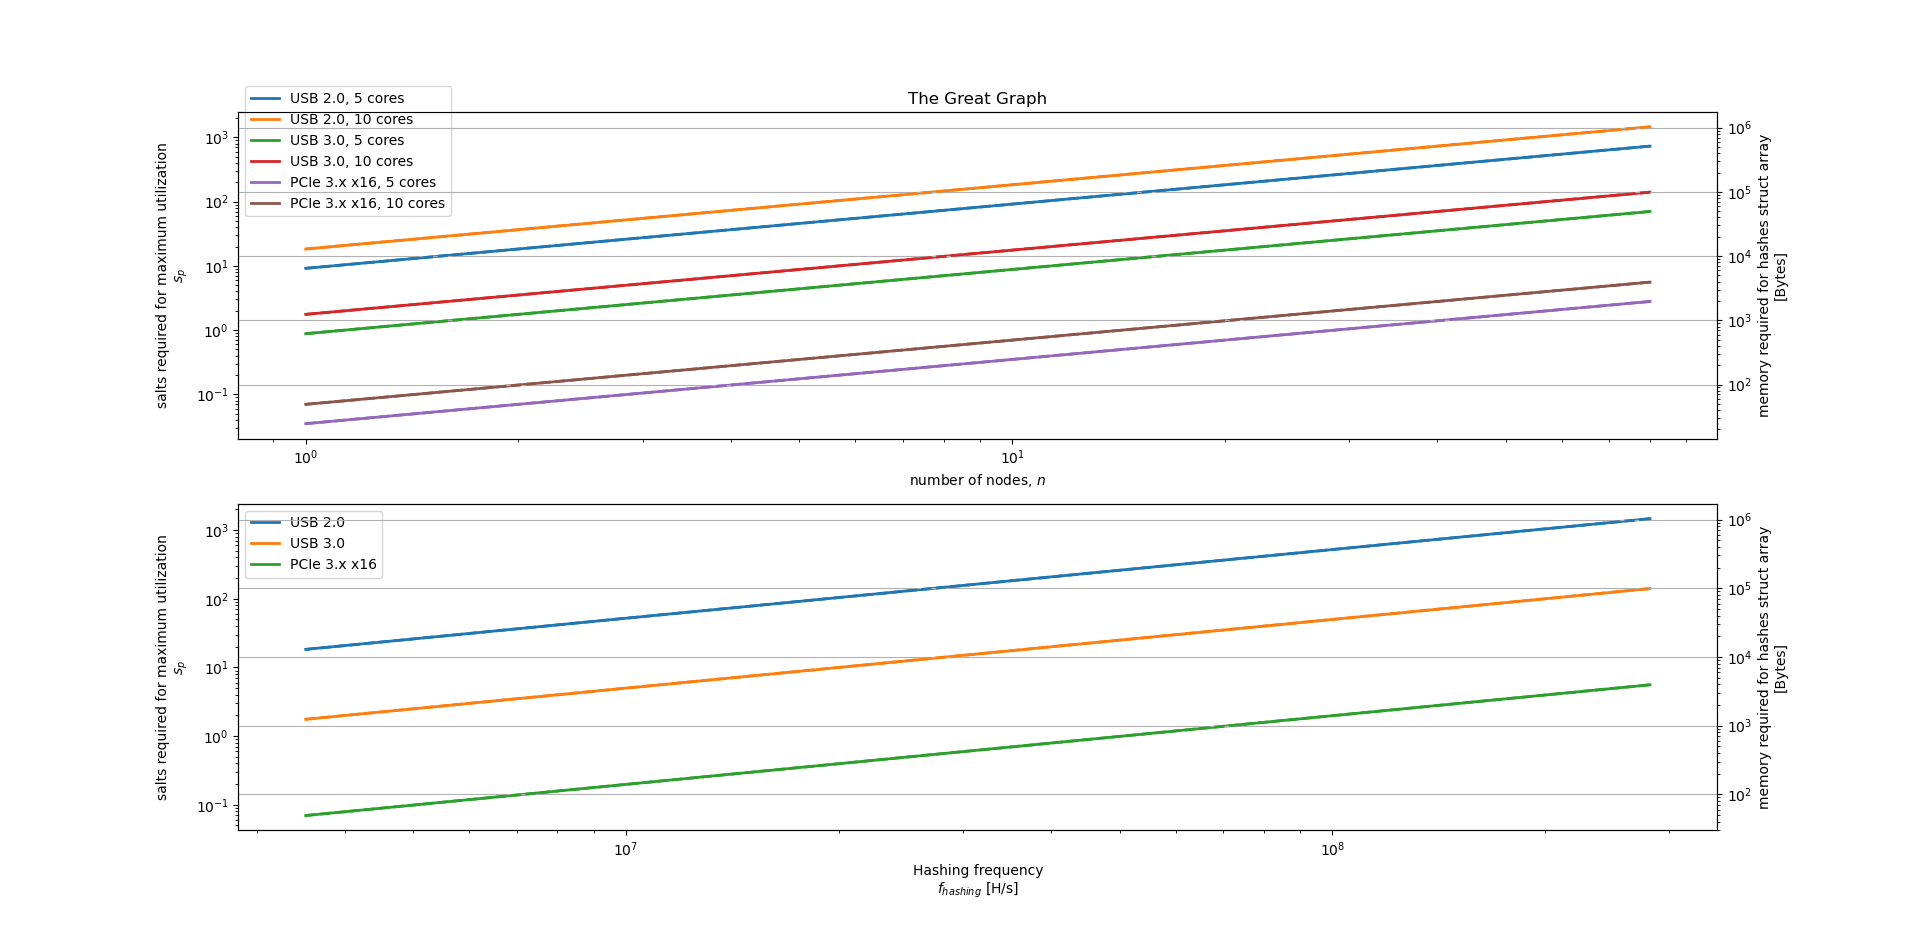
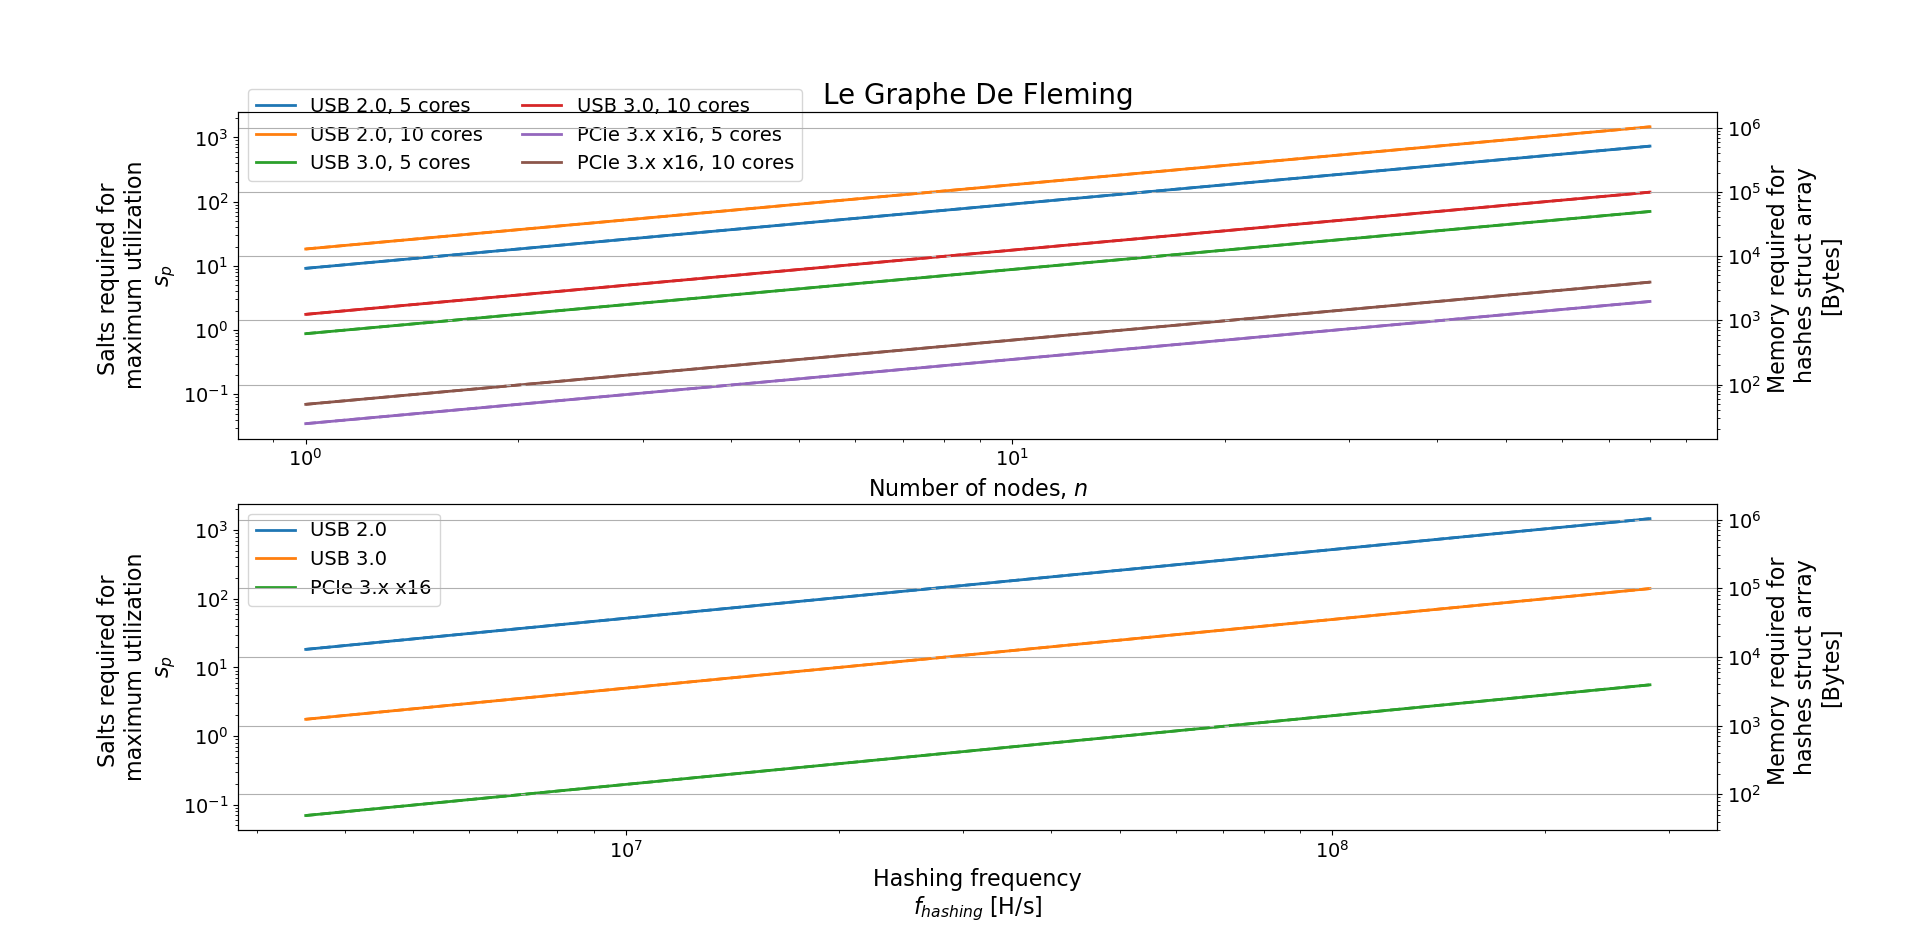
increase fontsize of le_graphe_de_Fleming

diff --git a/figures/theoretical_system/the_great_graph/le_graphe_de_Fleming.py b/figures/theoretical_system/the_great_graph/le_graphe_de_Fleming.py
@@ -3,7 +3,10 @@ import numpy as np
 import sys
 
 LINEWIDTH = 2
-TITLE = "The Great Graph"
+FONTSIZE = 14
+FONTSIZEPLUS = 16
+TITLEFONTSIZE = 20
+TITLE = "Le Graphe De Fleming"
 
 try:
     if sys.argv[1] == 'log':
@@ -34,7 +37,7 @@ fig, (ax1_n, ax1_f) = plt.subplots(2, 1, linewidth=LINEWIDTH)
 
 # Create a twin axes that shares the same x-axis
 ax2_n = ax1_n.twinx()
-plt.title(TITLE)
+plt.title(TITLE, fontsize = TITLEFONTSIZE)
 plt.grid()
 
 # Create a twin axes for the top axis
@@ -80,18 +83,23 @@ for bus_name, bus_speed in busses.items():
                 ax2_f.plot(f_target_values, mem_values, linestyle='--', linewidth=LINEWIDTH)
 
 # Set labels for the axes
-ax1_n.set_xlabel('number of nodes, $n$')
-ax1_n.set_ylabel('salts required for maximum utilization\n$s_p$')
-ax2_n.set_ylabel('memory required for hashes struct array\n[Bytes]')
-ax1_f.set_xlabel('Hashing frequency\n$f_{hashing}$ [H/s]')
-ax1_f.set_ylabel('salts required for maximum utilization\n$s_p$')
-ax2_f.set_ylabel('memory required for hashes struct array\n[Bytes]')
+ax1_n.set_xlabel('Number of nodes, $n$',fontsize=FONTSIZEPLUS)
+ax1_n.set_ylabel('Salts required for \nmaximum utilization\n$s_p$',fontsize=FONTSIZEPLUS)
+ax2_n.set_ylabel('Memory required for \nhashes struct array\n[Bytes]',fontsize=FONTSIZEPLUS)
+ax1_f.set_xlabel('Hashing frequency\n$f_{hashing}$ [H/s]',fontsize=FONTSIZEPLUS)
+ax1_f.set_ylabel('Salts required for \nmaximum utilization\n$s_p$',fontsize=FONTSIZEPLUS)
+ax2_f.set_ylabel('Memory required for \nhashes struct array\n[Bytes]',fontsize=FONTSIZEPLUS)
+
+ax1_n.tick_params(axis='both', which='both', labelsize=FONTSIZE)
+ax2_n.tick_params(axis='both', which='both', labelsize=FONTSIZE)
+ax1_f.tick_params(axis='both', which='both', labelsize=FONTSIZE)
+ax2_f.tick_params(axis='both', which='both', labelsize=FONTSIZE)
 
 # Add legends
 lines, labels = ax1_n.get_legend_handles_labels()
 lines_f, labels_f = ax1_f.get_legend_handles_labels()
-ax1_n.legend(lines, labels, loc='upper left', bbox_to_anchor=(0, 1.1))
-ax1_f.legend(lines_f, labels_f, loc='upper left')
+ax1_n.legend(lines, labels, loc='upper left', bbox_to_anchor=(0, 1.1), fontsize=FONTSIZE,ncol = 2)
+ax1_f.legend(lines_f, labels_f, loc='upper left',fontsize=FONTSIZE)
 
 # Show the plot
 plt.show()
